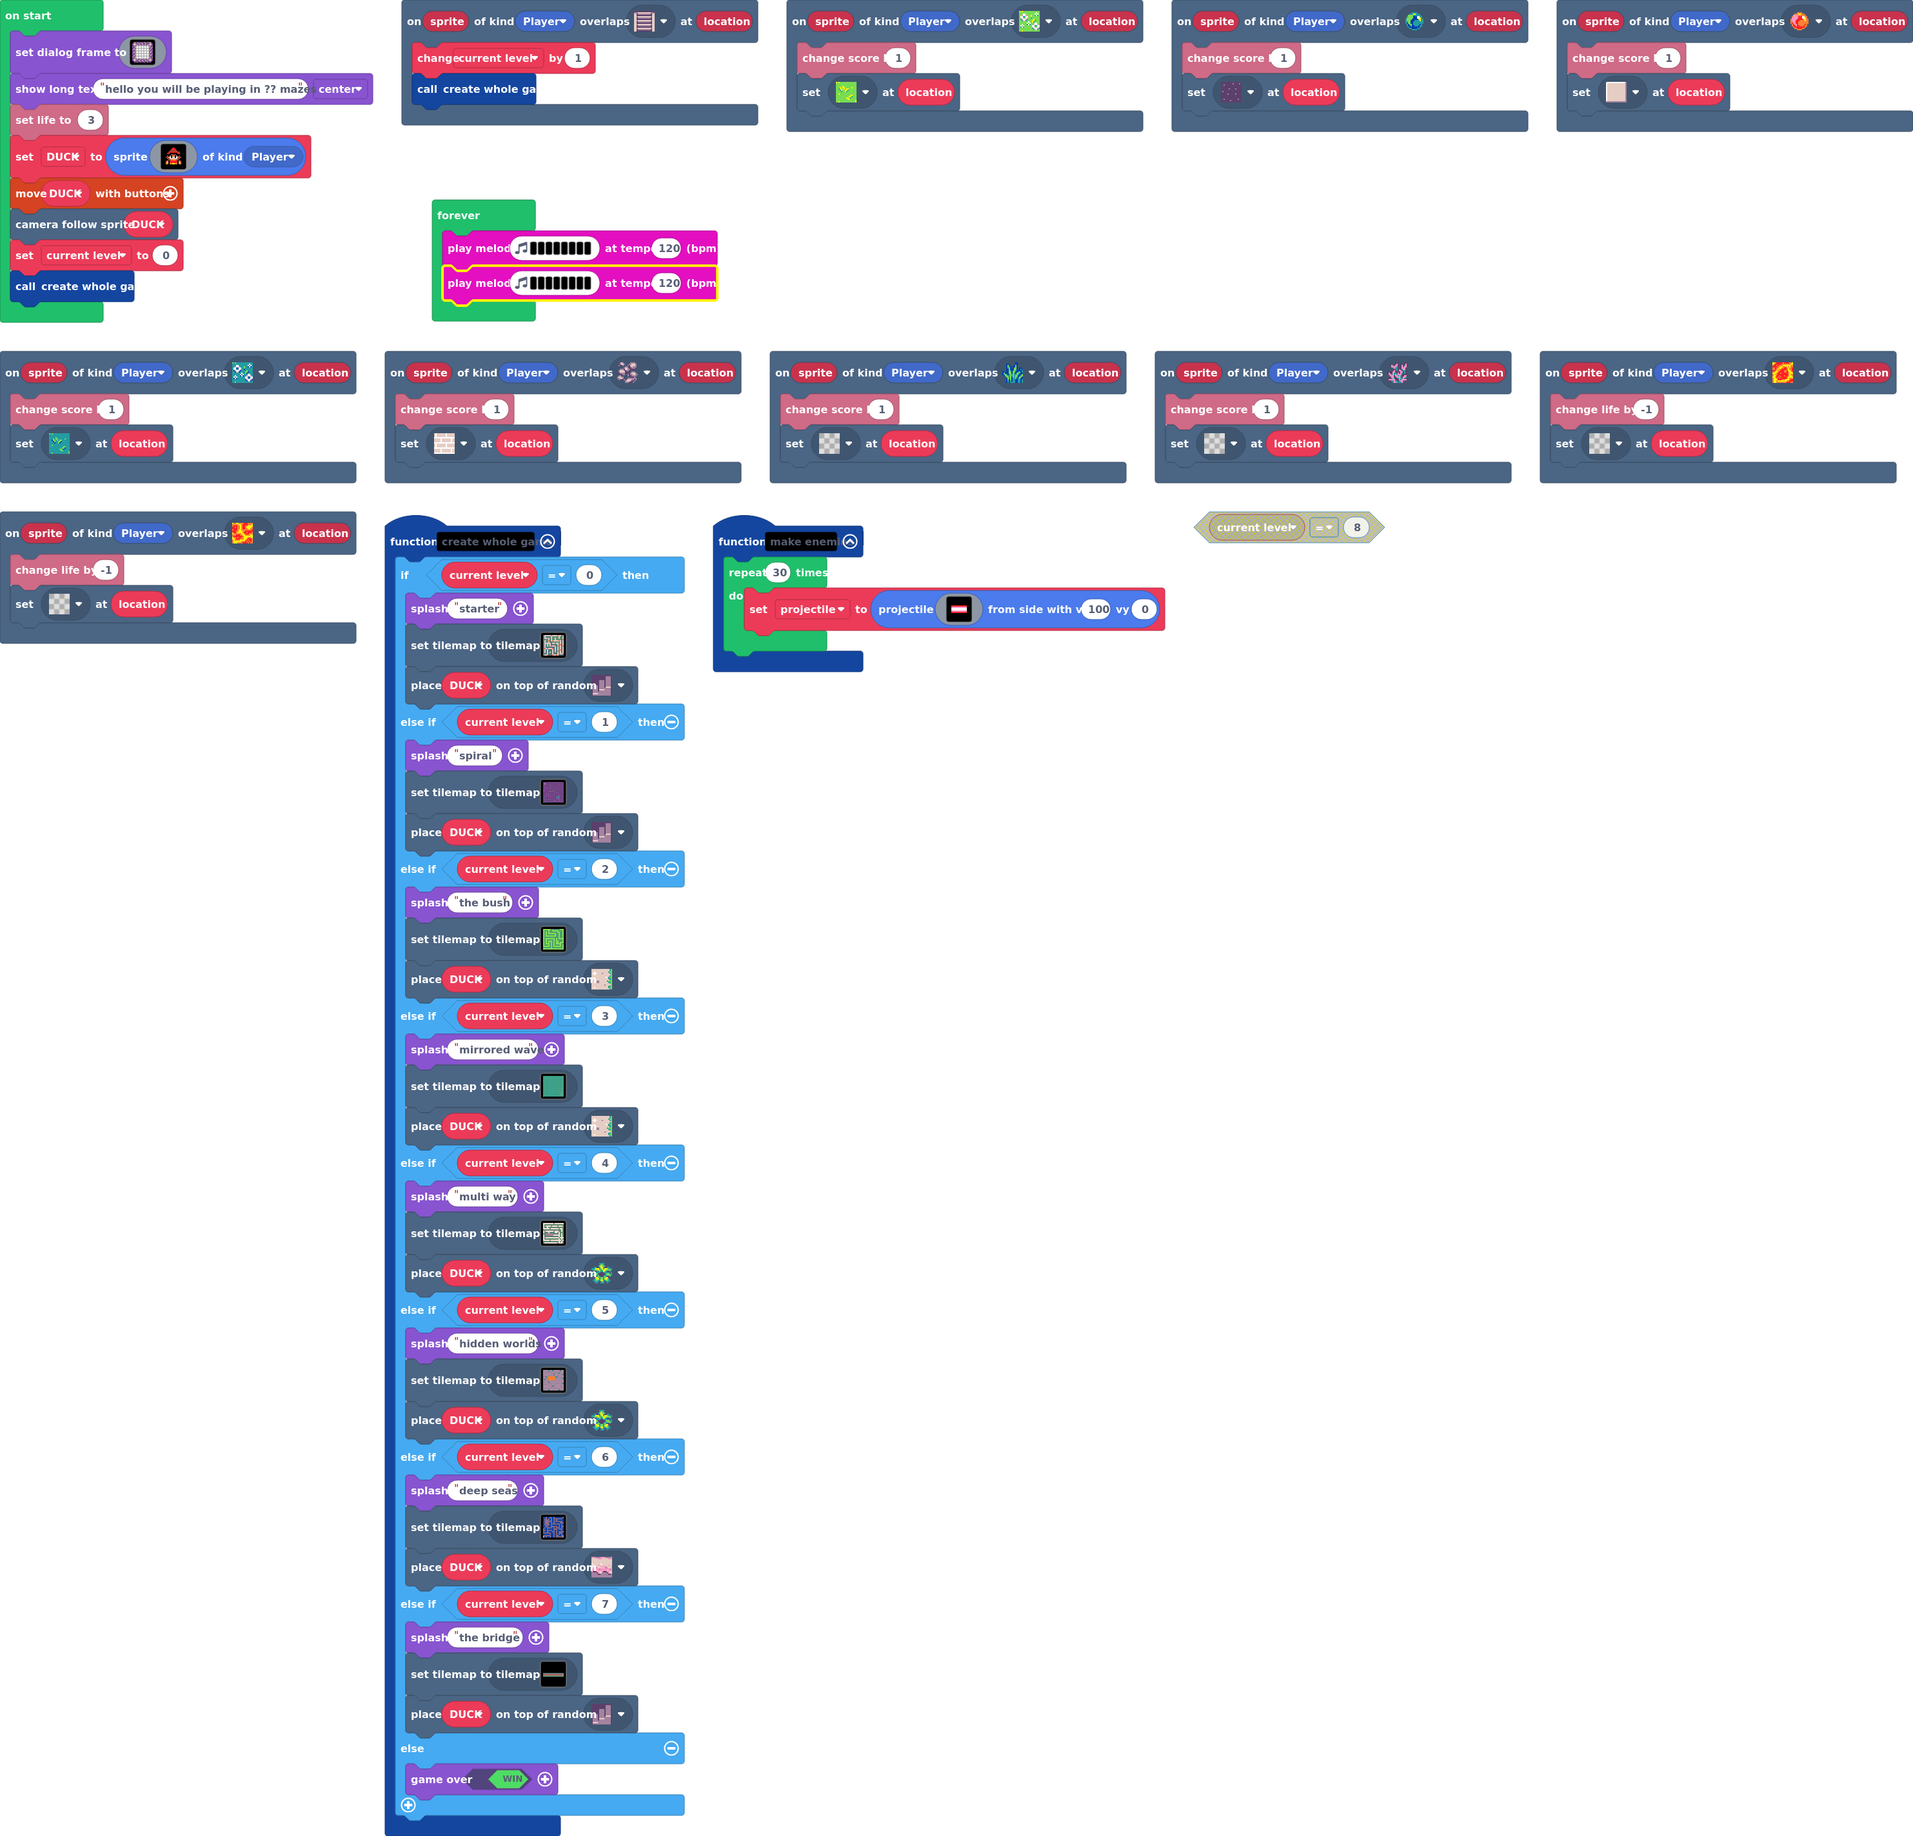
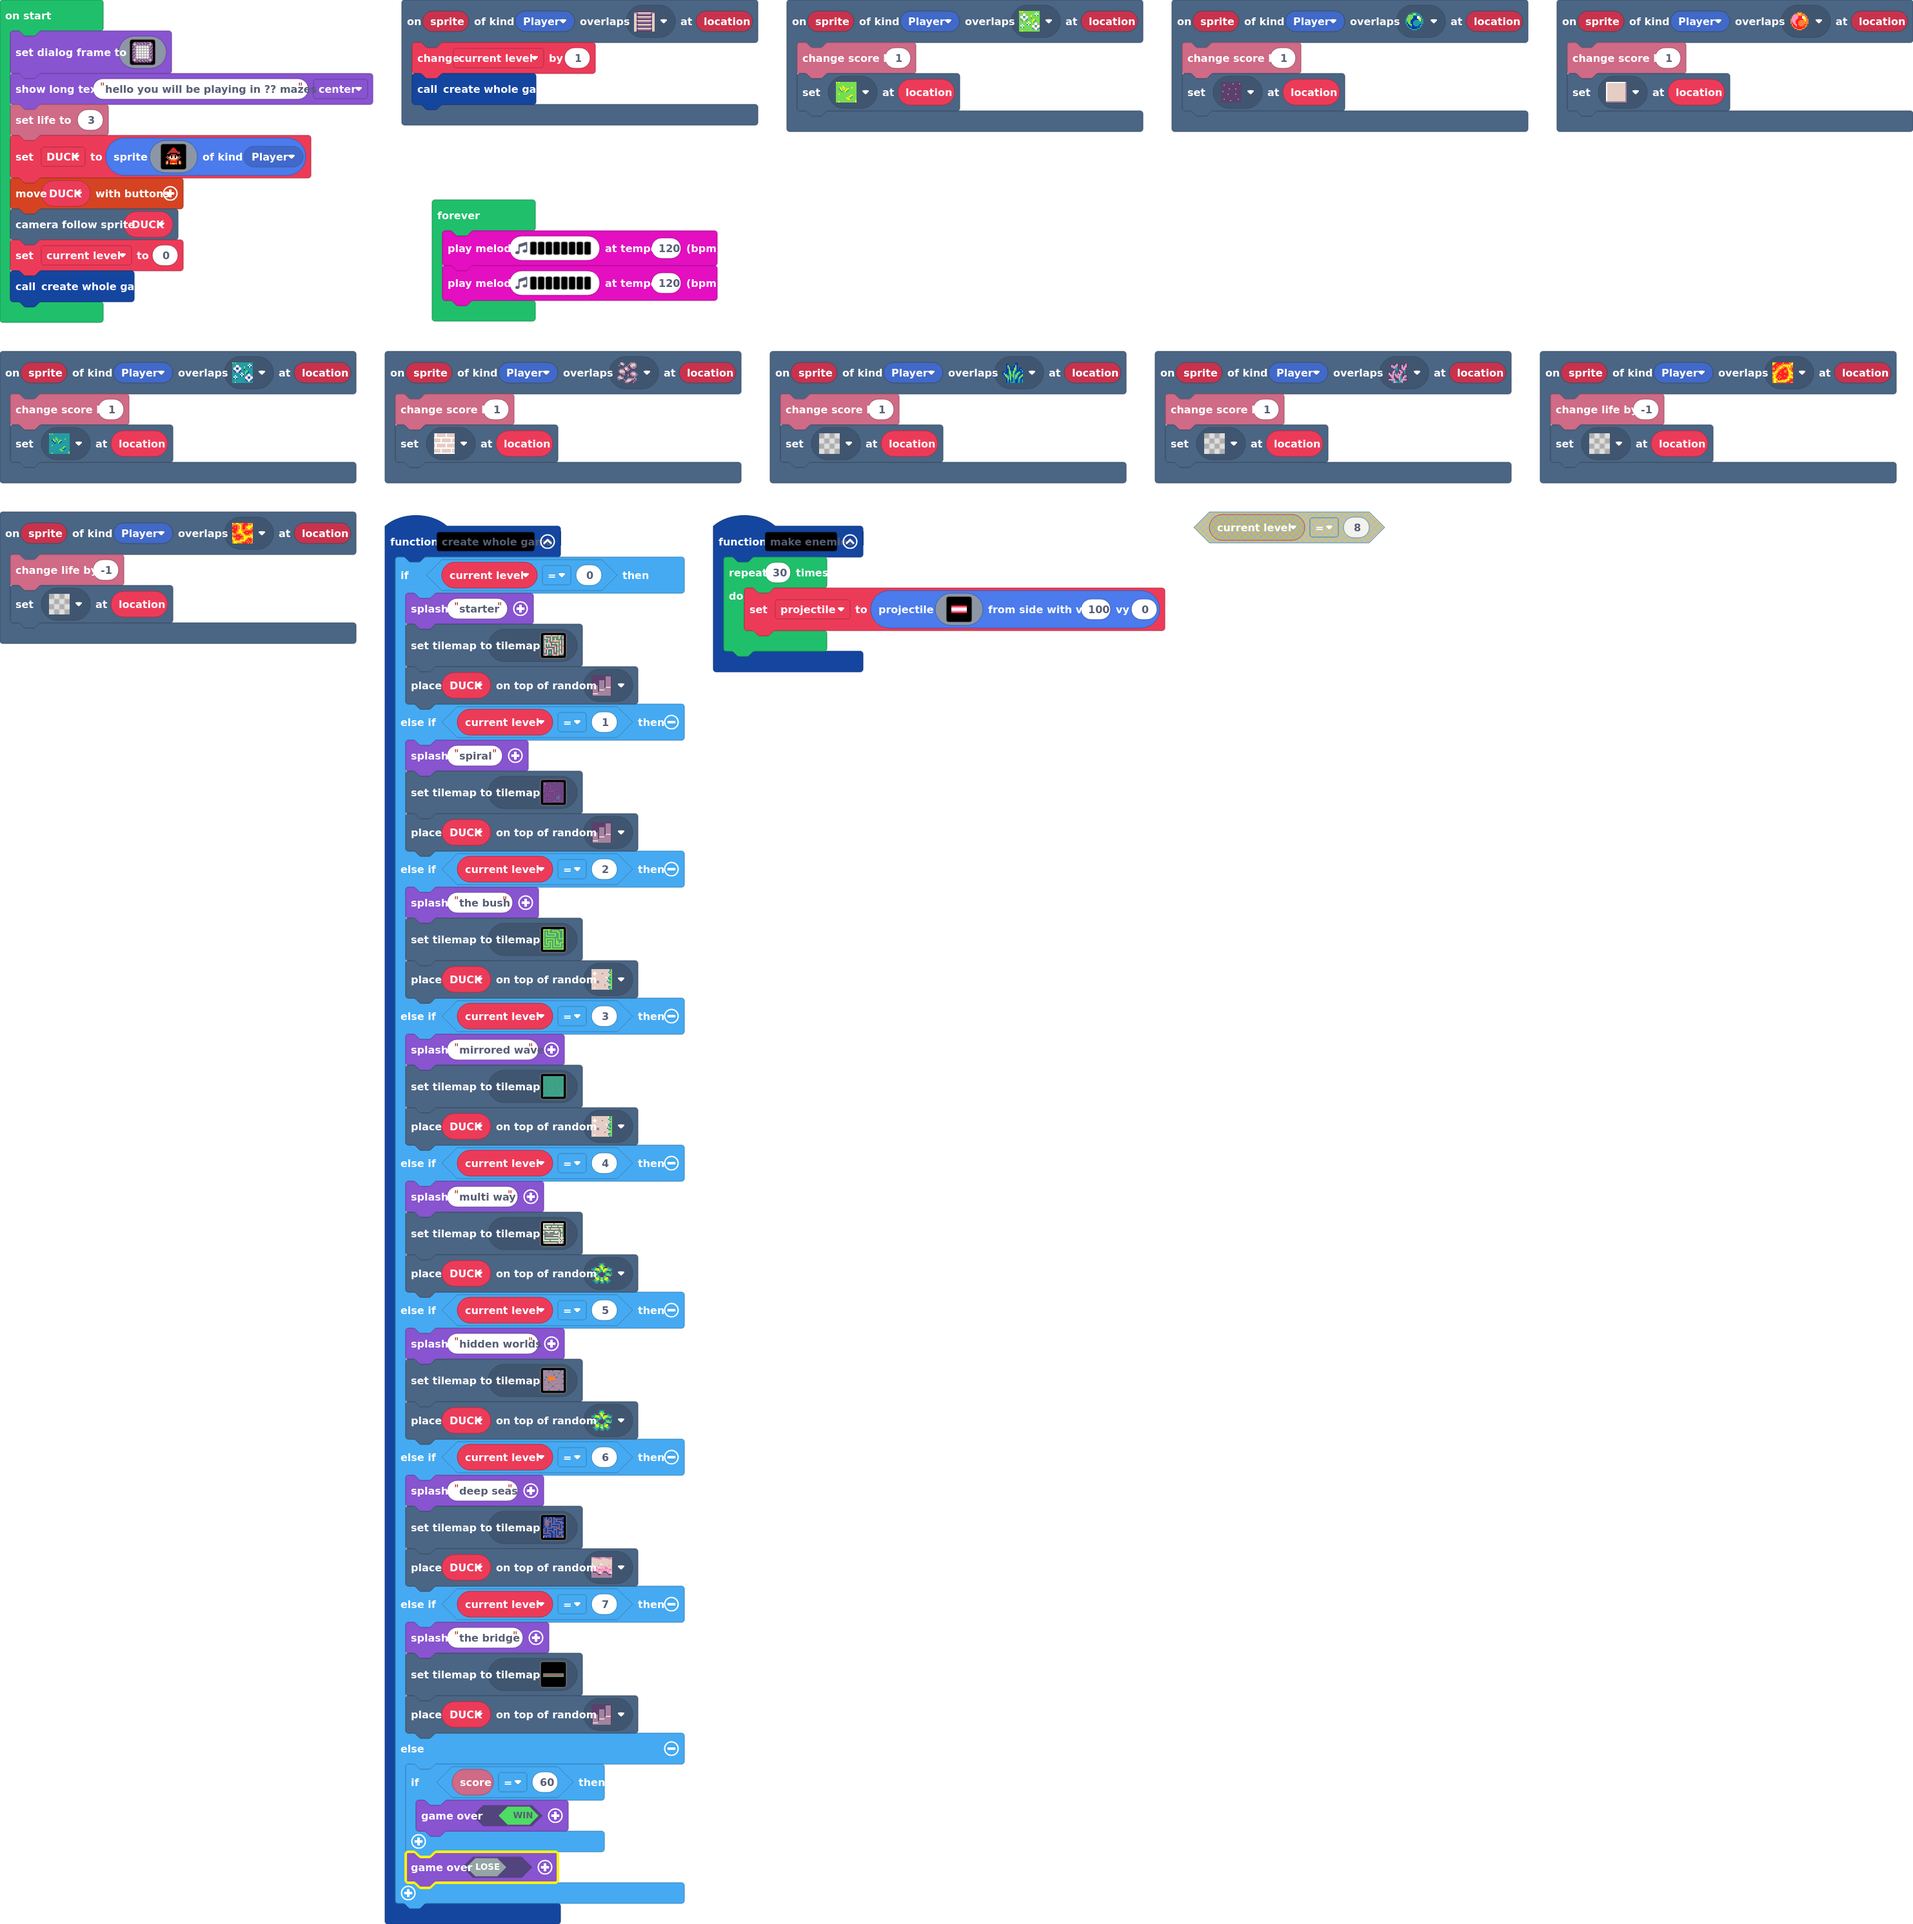
Update main.blocks, main.ts

diff --git a/main.ts b/main.ts
@@ -40,7 +40,10 @@ function create_whole_game () {
         tiles.setCurrentTilemap(tilemap`level9`)
         tiles.placeOnRandomTile(DUCK, sprites.dungeon.stairLarge)
     } else {
-        game.over(true)
+        if (info.score() == 60) {
+            game.over(true)
+        }
+        game.over(false)
     }
 }
 function make_enemies () {
